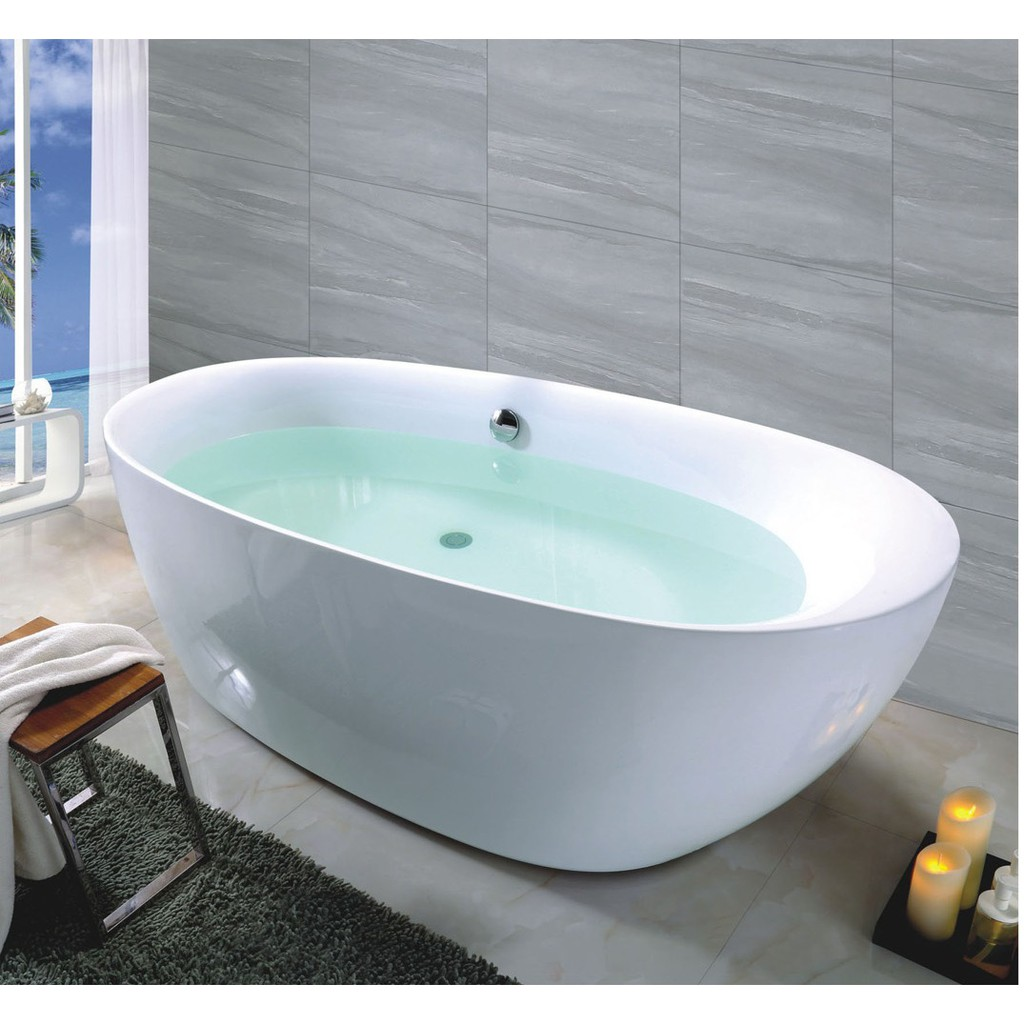
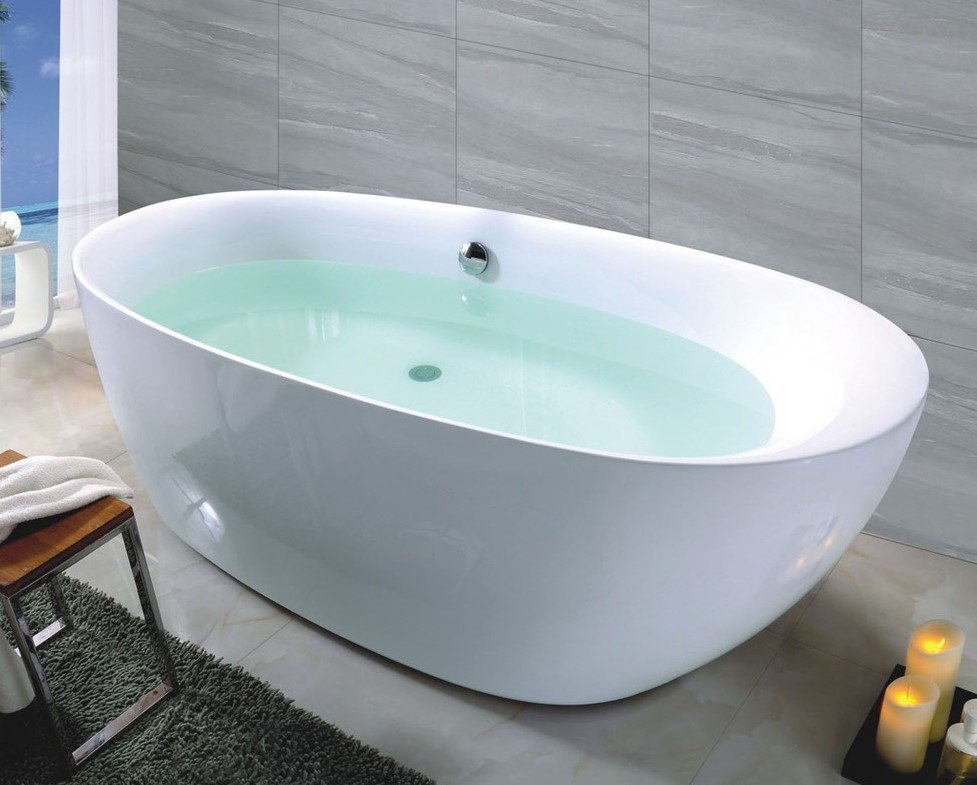
changed splashpic and gave css some z-index

diff --git a/scrollpage.html b/scrollpage.html
@@ -53,7 +53,7 @@
         
     
         <div class="column_buttom">
-            <img src="images/splashpicture.png" alt="splashpicture">
+            <img src="images/a6b1abc28057b07a8ce7192262fe1e11.jpg" alt="splashpicture">
         </div>
     </div>
 

diff --git a/scrollpage.css b/scrollpage.css
@@ -96,6 +96,8 @@ progress::-moz-progress-bar {
 .nav_links {
   color: black;
   text-decoration: none;
+  z-index: 1;
+  position: relative;
 }
 
 .nav_links:hover {
